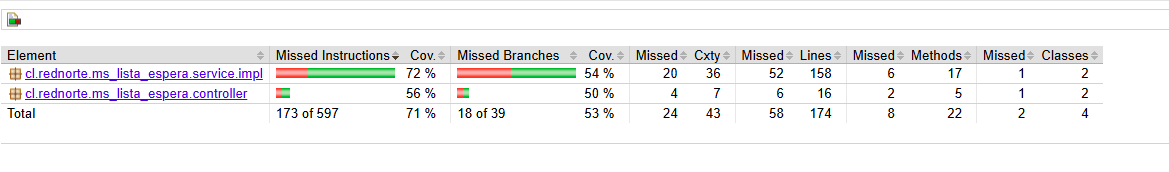
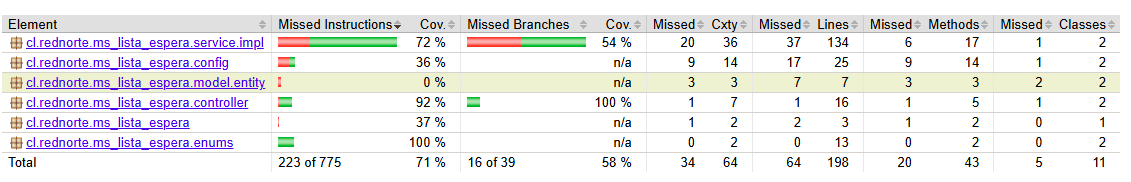
docs: agregar reporte JaCoCo y documentar pruebas unitarias

diff --git a/src/test/java/cl/rednorte/ms_lista_espera/controller/SolicitudControllerTest.java b/src/test/java/cl/rednorte/ms_lista_espera/controller/SolicitudControllerTest.java
@@ -1,47 +1,62 @@
 package cl.rednorte.ms_lista_espera.controller;
-
-import cl.rednorte.ms_lista_espera.config.SecurityConfig;
 import cl.rednorte.ms_lista_espera.dto.request.CambiarEstadoRequest;
 import cl.rednorte.ms_lista_espera.dto.request.CrearSolicitudRequest;
+import cl.rednorte.ms_lista_espera.dto.response.PageResponse;
 import cl.rednorte.ms_lista_espera.dto.response.SolicitudDetalleResponse;
 import cl.rednorte.ms_lista_espera.dto.response.SolicitudResponse;
 import cl.rednorte.ms_lista_espera.enums.EstadoSolicitud;
 import cl.rednorte.ms_lista_espera.enums.NivelUrgencia;
 import cl.rednorte.ms_lista_espera.service.SolicitudService;
-import com.fasterxml.jackson.databind.ObjectMapper;
-import com.fasterxml.jackson.datatype.jsr310.JavaTimeModule;
 import org.junit.jupiter.api.Test;
 import org.springframework.beans.factory.annotation.Autowired;
 import org.springframework.boot.test.autoconfigure.web.servlet.WebMvcTest;
 import org.springframework.boot.test.mock.mockito.MockBean;
+import org.springframework.context.annotation.Bean;
 import org.springframework.context.annotation.Import;
+import org.springframework.boot.test.context.TestConfiguration;
 import org.springframework.http.MediaType;
-import org.springframework.security.test.context.support.WithMockUser;
+import org.springframework.security.config.annotation.web.builders.HttpSecurity;
+import org.springframework.security.web.SecurityFilterChain;
 import org.springframework.test.web.servlet.MockMvc;
 
 import java.time.LocalDateTime;
+import java.util.Collections;
 
-import static org.mockito.ArgumentMatchers.*;
+import static org.mockito.ArgumentMatchers.any;
+import static org.mockito.ArgumentMatchers.anyString;
+import static org.mockito.ArgumentMatchers.eq;
 import static org.mockito.Mockito.when;
-import static org.springframework.security.test.web.servlet.request.SecurityMockMvcRequestPostProcessors.jwt;
-import static org.springframework.test.web.servlet.request.MockMvcRequestBuilders.*;
-import static org.springframework.test.web.servlet.result.MockMvcResultMatchers.*;
+import static org.springframework.test.web.servlet.request.MockMvcRequestBuilders.get;
+import static org.springframework.test.web.servlet.request.MockMvcRequestBuilders.patch;
+import static org.springframework.test.web.servlet.request.MockMvcRequestBuilders.post;
+import static org.springframework.test.web.servlet.result.MockMvcResultMatchers.jsonPath;
+import static org.springframework.test.web.servlet.result.MockMvcResultMatchers.status;
 
 @WebMvcTest(SolicitudController.class)
-@Import(SecurityConfig.class)
+@Import(SolicitudControllerTest.SecurityTestConfig.class)
 class SolicitudControllerTest {
+
+    @TestConfiguration
+    static class SecurityTestConfig {
+        @Bean
+        SecurityFilterChain filterChain(HttpSecurity http) throws Exception {
+            http
+                .csrf(csrf -> csrf.disable())
+                .authorizeHttpRequests(auth -> auth.anyRequest().permitAll());
+            return http.build();
+        }
+    }
 
     @Autowired
     private MockMvc mockMvc;
 
     @Autowired
-    private ObjectMapper objectMapper;
+    private com.fasterxml.jackson.databind.ObjectMapper objectMapper;
 
     @MockBean
     private SolicitudService solicitudService;
 
     @Test
-    @WithMockUser
     void crear_requestValido_debeRetornar201() throws Exception {
         CrearSolicitudRequest request = new CrearSolicitudRequest();
         request.setRutPaciente("12345678-9");
@@ -55,10 +70,9 @@ class SolicitudControllerTest {
         response.setId(1L);
         response.setEstado(EstadoSolicitud.EN_ESPERA);
 
-        when(solicitudService.crear(any(), anyString())).thenReturn(response);
+        when(solicitudService.crear(any(CrearSolicitudRequest.class), anyString())).thenReturn(response);
 
         mockMvc.perform(post("/solicitudes")
-                .with(jwt().jwt(j -> j.claim("rut", "11111111-1")))
                 .contentType(MediaType.APPLICATION_JSON)
                 .content(objectMapper.writeValueAsString(request)))
             .andExpect(status().isCreated())
@@ -66,7 +80,19 @@ class SolicitudControllerTest {
     }
 
     @Test
-    @WithMockUser
+    void listar_sinFiltros_debeRetornar200() throws Exception {
+        PageResponse<SolicitudResponse> pageResponse = new PageResponse<>(
+                Collections.emptyList(), 0L, 0, 0
+        );
+
+        when(solicitudService.listar(any(), any(), any(), any())).thenReturn(pageResponse);
+
+        mockMvc.perform(get("/solicitudes"))
+            .andExpect(status().isOk())
+            .andExpect(jsonPath("$.content").isArray());
+    }
+
+    @Test
     void obtenerDetalle_idExistente_debeRetornar200() throws Exception {
         SolicitudDetalleResponse detalle = new SolicitudDetalleResponse();
         detalle.setId(1L);
@@ -75,14 +101,12 @@ class SolicitudControllerTest {
 
         when(solicitudService.obtenerDetalle(1L)).thenReturn(detalle);
 
-        mockMvc.perform(get("/solicitudes/1")
-                .with(jwt()))
+        mockMvc.perform(get("/solicitudes/{id}", 1L))
             .andExpect(status().isOk())
             .andExpect(jsonPath("$.rutPaciente").value("12345678-9"));
     }
 
     @Test
-    @WithMockUser
     void cambiarEstado_requestValido_debeRetornar200() throws Exception {
         CambiarEstadoRequest request = new CambiarEstadoRequest();
         request.setNuevoEstado(EstadoSolicitud.CITADO);
@@ -92,10 +116,10 @@ class SolicitudControllerTest {
         detalle.setId(1L);
         detalle.setEstado(EstadoSolicitud.CITADO);
 
-        when(solicitudService.cambiarEstado(eq(1L), any(), anyString())).thenReturn(detalle);
+        when(solicitudService.cambiarEstado(eq(1L), any(CambiarEstadoRequest.class), anyString()))
+                .thenReturn(detalle);
 
-        mockMvc.perform(patch("/solicitudes/1/estado")
-                .with(jwt().jwt(j -> j.claim("rut", "11111111-1")))
+        mockMvc.perform(patch("/solicitudes/{id}/estado", 1L)
                 .contentType(MediaType.APPLICATION_JSON)
                 .content(objectMapper.writeValueAsString(request)))
             .andExpect(status().isOk())